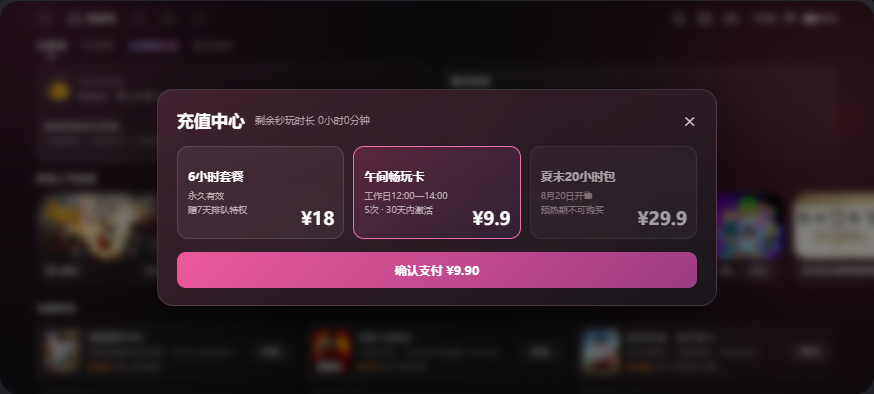
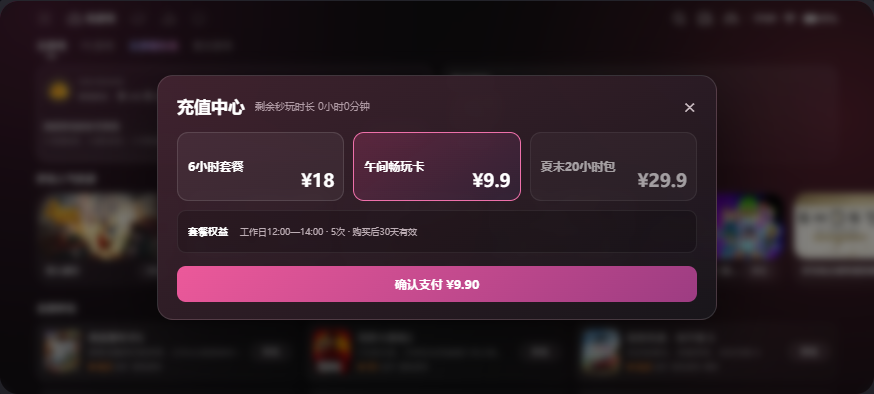
fix: place package rights below sku selection

diff --git a/demos/云游戏/云游戏时段次卡与限时套餐demo.html b/demos/云游戏/云游戏时段次卡与限时套餐demo.html
@@ -62,10 +62,12 @@ button{cursor:pointer}
 .v611-recharge-extension::-webkit-scrollbar{display:none}
 .v611-product-area{position:relative;padding:13px 12px 12px;border-radius:18px;background:linear-gradient(145deg,rgba(69,33,47,.98),rgba(37,22,28,.98));border:1px solid rgba(255,255,255,.13);box-shadow:0 12px 28px rgba(0,0,0,.28)}
 .v611-product-head{height:26px;display:flex;align-items:flex-start;color:#f8edf2}.v611-product-head strong{font-size:15px;line-height:20px}.v611-product-head span{margin-left:auto;color:#b9a6af;font-size:10px;line-height:18px}
-.v611-product-row{display:grid;grid-template-columns:1fr 1fr;gap:10px;height:128px}
+.v611-product-row{display:grid;grid-template-columns:1fr 1fr;gap:10px;height:98px}
 .v611-product{position:relative;border:1px solid rgba(255,255,255,.14);border-radius:13px;background:rgba(255,255,255,.055);color:#fff;padding:13px 12px;text-align:left}.v611-product.selected{border-color:#ff7eb9;background:linear-gradient(145deg,rgba(160,48,96,.38),rgba(69,44,80,.36));box-shadow:inset 0 0 0 1px rgba(255,126,185,.12)}.v611-product.disabled{opacity:.72;cursor:default}
-.v611-product h3{max-width:112px;font-size:14px;line-height:20px;margin-bottom:7px}.v611-product p{font-size:10.5px;color:#c2afb8;line-height:16px}.v611-product .mini-price{position:absolute;left:12px;bottom:13px;font-family:var(--number);font-size:20px;font-weight:700}.v611-product .mini-price em{font-size:12px;font-style:normal}.v611-product .mini-badge{position:absolute;right:9px;top:10px;padding:3px 6px;border-radius:4px;background:#c8447b;color:#fff;font-size:8px}.v611-product.disabled .mini-badge{background:#694856;color:#f1d5df}
-.v611-buy{position:absolute;left:120px;bottom:21px;width:52px;height:30px;border:0;border-radius:16px;background:linear-gradient(135deg,#e95798,#aa386b);box-shadow:0 5px 15px rgba(210,58,124,.28);color:#fff;font-size:11px;font-weight:650}
+.v611-product h3{max-width:112px;font-size:14px;line-height:20px}.v611-product .mini-price{position:absolute;left:12px;bottom:12px;font-family:var(--number);font-size:20px;font-weight:700}.v611-product .mini-price em{font-size:12px;font-style:normal}.v611-product .mini-badge{position:absolute;right:9px;top:10px;padding:3px 6px;border-radius:4px;background:#c8447b;color:#fff;font-size:8px}.v611-product.disabled .mini-badge{background:#694856;color:#f1d5df}
+.v611-buy{position:absolute;left:120px;top:80px;width:52px;height:30px;border:0;border-radius:16px;background:linear-gradient(135deg,#e95798,#aa386b);box-shadow:0 5px 15px rgba(210,58,124,.28);color:#fff;font-size:11px;font-weight:650}
+.v611-package-rights{margin-top:10px;padding:11px 12px;border-radius:11px;background:rgba(0,0,0,.2);border:1px solid rgba(255,255,255,.07)}
+.v611-package-rights h4{font-size:12px;color:#f7e6ed;margin-bottom:7px}.v611-package-rights p{display:flex;justify-content:space-between;color:#af9da5;font-size:10.5px;line-height:18px}.v611-package-rights p strong{color:#f1e5ea;font-weight:500}
 .v611-benefits{height:132px;margin-top:12px;padding:14px 16px 13px;border-radius:18px;background:linear-gradient(145deg,rgba(85,54,67,.94),rgba(61,38,48,.94));border:1px solid rgba(255,255,255,.12)}
 .v611-benefits-title{height:27px;display:flex;align-items:flex-start;justify-content:center;color:#f6dfe9;font-size:15px;font-weight:650}.v611-benefits-title:before,.v611-benefits-title:after{content:'';width:54px;height:1px;margin:10px 9px 0;background:linear-gradient(90deg,transparent,rgba(255,255,255,.26))}.v611-benefits-title:after{transform:rotate(180deg)}
 .v611-benefit-row{height:72px;display:grid;grid-template-columns:repeat(3,1fr);align-items:center}.v611-benefit{text-align:center;color:#f1e7eb;font-size:12px}.v611-benefit i{width:34px;height:34px;margin:0 auto 7px;border-radius:50%;display:grid;place-items:center;background:#694253;color:#ff8dc0;font-style:normal;font-size:15px}
@@ -98,7 +100,8 @@ button{cursor:pointer}
 .landscape-mask{position:absolute;inset:0;background:rgba(0,0,0,.48);backdrop-filter:blur(4px);display:flex;align-items:center;justify-content:center}
 .landscape-modal{width:560px;border-radius:16px;background:linear-gradient(150deg,rgba(64,35,47,.98),rgba(25,22,27,.98));border:1px solid rgba(255,255,255,.12);box-shadow:0 22px 65px rgba(0,0,0,.5);padding:17px 19px;color:#fff}
 .landscape-modal-head{display:flex;align-items:center;margin-bottom:13px}.landscape-modal-head h2{font-size:17px}.landscape-modal-head p{margin-left:10px;color:#b19ca6;font-size:10px}.landscape-close{margin-left:auto;border:0;background:transparent;color:#c7b9bf;font-size:20px}
-.landscape-skus{display:grid;grid-template-columns:repeat(3,1fr);gap:9px}.landscape-sku{height:93px;border-radius:11px;border:1px solid rgba(255,255,255,.12);background:rgba(255,255,255,.05);padding:10px;color:#fff;text-align:left;position:relative}.landscape-sku.selected{border-color:#ee70aa;background:linear-gradient(145deg,rgba(167,54,102,.34),rgba(69,49,90,.3))}.landscape-sku h3{font-size:12px}.landscape-sku p{font-size:9px;color:#bbaab1;line-height:14px;margin-top:4px}.landscape-sku strong{position:absolute;right:9px;bottom:8px;font-family:var(--number);font-size:18px}.landscape-sku.disabled{opacity:.58}
+.landscape-skus{display:grid;grid-template-columns:repeat(3,1fr);gap:9px}.landscape-sku{height:69px;border-radius:11px;border:1px solid rgba(255,255,255,.12);background:rgba(255,255,255,.05);padding:10px;color:#fff;text-align:left;position:relative}.landscape-sku.selected{border-color:#ee70aa;background:linear-gradient(145deg,rgba(167,54,102,.34),rgba(69,49,90,.3))}.landscape-sku h3{font-size:12px}.landscape-sku strong{position:absolute;right:9px;bottom:8px;font-family:var(--number);font-size:18px}.landscape-sku.disabled{opacity:.58}
+.landscape-package-rights{margin-top:9px;height:43px;padding:7px 10px;border-radius:9px;background:rgba(0,0,0,.2);border:1px solid rgba(255,255,255,.07);display:flex;align-items:center}.landscape-package-rights strong{font-size:10px;margin-right:12px}.landscape-package-rights span{font-size:9px;color:#bdaeb5}
 .landscape-pay{width:100%;height:36px;border:0;border-radius:9px;background:linear-gradient(135deg,#ec599a,#9d3c82);color:#fff;font-weight:650;font-size:12px;margin-top:13px}
 .landscape-activation{width:460px}.landscape-activation .pass-summary{display:grid;grid-template-columns:1fr 1fr;gap:8px 22px}.landscape-activation .pass-row{margin:0}.landscape-activation .sheet-actions{justify-content:flex-end}.landscape-activation .cancel-btn{height:36px}.landscape-activation .confirm-btn{height:36px;max-width:180px;background:linear-gradient(135deg,#f25c9e,#a93a72);color:#fff}
 .landscape-play-hotspot{position:absolute;z-index:10;left:56px;bottom:72px;width:60px;height:31px;border:0;background:transparent}
@@ -145,10 +148,11 @@ button{cursor:pointer}
         <div class="v611-product-area">
           <div class="v611-product-head"><strong>时长套餐</strong><span>选择套餐后购买</span></div>
           <div class="v611-product-row">
-            <button class="v611-product selected" id="portraitSlotSku"><span class="mini-badge">闲时特惠</span><h3>午间畅玩卡</h3><p>工作日 12:00—14:00<br>5次 · 购买后30天有效</p><span class="mini-price"><em>¥</em>9.9</span></button>
-            <button class="v611-product disabled" disabled><span class="mini-badge">2天后开售</span><h3>夏末20小时包</h3><p>8月20日开售<br>9月9日到期</p><span class="mini-price"><em>¥</em>29.9</span></button>
+            <button class="v611-product selected" id="portraitSlotSku"><span class="mini-badge">闲时特惠</span><h3>午间畅玩卡</h3><span class="mini-price"><em>¥</em>9.9</span></button>
+            <button class="v611-product disabled" disabled><span class="mini-badge">2天后开售</span><h3>夏末20小时包</h3><span class="mini-price"><em>¥</em>29.9</span></button>
           </div>
           <button class="v611-buy" onclick="payPortraitSlot()">购买</button>
+          <div class="v611-package-rights"><h4>套餐权益</h4><p><span>可用时间</span><strong>工作日 12:00—14:00</strong></p><p><span>包含权益</span><strong>5次 · 购买后30天有效</strong></p></div>
         </div>
         <div class="v611-benefits">
           <div class="v611-benefits-title">专享权益</div>
@@ -217,10 +221,11 @@ button{cursor:pointer}
         <div class="landscape-modal">
           <div class="landscape-modal-head"><h2>充值中心</h2><p>剩余秒玩时长 0小时0分钟</p><button class="landscape-close" onclick="closeLandscapeRecharge()">×</button></div>
           <div class="landscape-skus">
-            <button class="landscape-sku" data-price="18.00"><h3>6小时套餐</h3><p>永久有效<br>赠7天排队特权</p><strong>¥18</strong></button>
-            <button class="landscape-sku selected" data-price="9.90"><h3>午间畅玩卡</h3><p>工作日12:00—14:00<br>5次 · 30天内激活</p><strong>¥9.9</strong></button>
-            <button class="landscape-sku disabled" disabled><h3>夏末20小时包</h3><p>8月20日开售<br>预热期不可购买</p><strong>¥29.9</strong></button>
+            <button class="landscape-sku" data-price="18.00" data-rights="永久有效 · 赠7天排队特权"><h3>6小时套餐</h3><strong>¥18</strong></button>
+            <button class="landscape-sku selected" data-price="9.90" data-rights="工作日12:00—14:00 · 5次 · 购买后30天有效"><h3>午间畅玩卡</h3><strong>¥9.9</strong></button>
+            <button class="landscape-sku disabled" disabled><h3>夏末20小时包</h3><strong>¥29.9</strong></button>
           </div>
+          <div class="landscape-package-rights"><strong>套餐权益</strong><span id="landscapeRightsText">工作日12:00—14:00 · 5次 · 购买后30天有效</span></div>
           <button class="landscape-pay" onclick="payLandscapeSlot()">确认支付 ¥9.90</button>
         </div>
       </div>
@@ -329,7 +334,7 @@ function payLandscapeSlot(){showToast('landscapePayToast','支付成功，午间
 function closeLandscapeActivation(){document.getElementById('landscapeActivationMask').style.display='none'}
 function openLandscapeActivation(){if(landscapePassActivated){showToast('landscapeActivationToast','本时段已生效，可畅玩至14:00');return}document.getElementById('landscapeActivationMask').style.display='flex'}
 function activateLandscapePass(){landscapePassActivated=true;document.getElementById('landscapeActivationRemaining').textContent='4/5次';closeLandscapeActivation();showToast('landscapeActivationToast','午间畅玩卡已生效，可畅玩至14:00')}
-document.querySelectorAll('.landscape-sku[data-price]').forEach(function(card){card.addEventListener('click',function(){document.querySelectorAll('.landscape-sku[data-price]').forEach(function(x){x.classList.remove('selected')});card.classList.add('selected');document.querySelector('.landscape-pay').textContent='确认支付 ¥'+Number(card.dataset.price).toFixed(2)})});
+document.querySelectorAll('.landscape-sku[data-price]').forEach(function(card){card.addEventListener('click',function(){document.querySelectorAll('.landscape-sku[data-price]').forEach(function(x){x.classList.remove('selected')});card.classList.add('selected');document.querySelector('.landscape-pay').textContent='确认支付 ¥'+Number(card.dataset.price).toFixed(2);document.getElementById('landscapeRightsText').textContent=card.dataset.rights})});
 function saveAdmin(text){showToast(document.getElementById('scene-b-slot').classList.contains('active')?'adminSlotToast':'adminLimitedToast',text)}
 function configureProductMode(mode){var isQueue=mode==='queue';document.getElementById('slotProductType').value=isQueue?'普通时长包':'时段次卡';document.querySelector('#scene-b-slot .modal-head h2').textContent=isQueue?'编辑普通时长包':'编辑云游戏充值商品';document.getElementById('slotProductName').value=isQueue?'6小时套餐':'午间畅玩卡';document.getElementById('slotProductPrice').value=isQueue?'18.00':'9.90';document.getElementById('slotRuleTitle').textContent=isQueue?'排队特权规则':'时段次卡规则';document.querySelectorAll('.slot-rule').forEach(function(x){x.style.display=isQueue?'none':''});document.getElementById('queueDaysField').style.display=isQueue?'block':'none';document.getElementById('slotSnapshotTip').textContent=isQueue?'排队特权按每笔真实付费订单独立计算，不累计；用户取所有订单中最晚到期时间。':'已有订单后修改价格、次数、有效天数或时段，只影响新订单；历史权益继续按购买快照执行。'}
 function openQueueConfig(){showScene('b-slot');configureProductMode('queue')}
